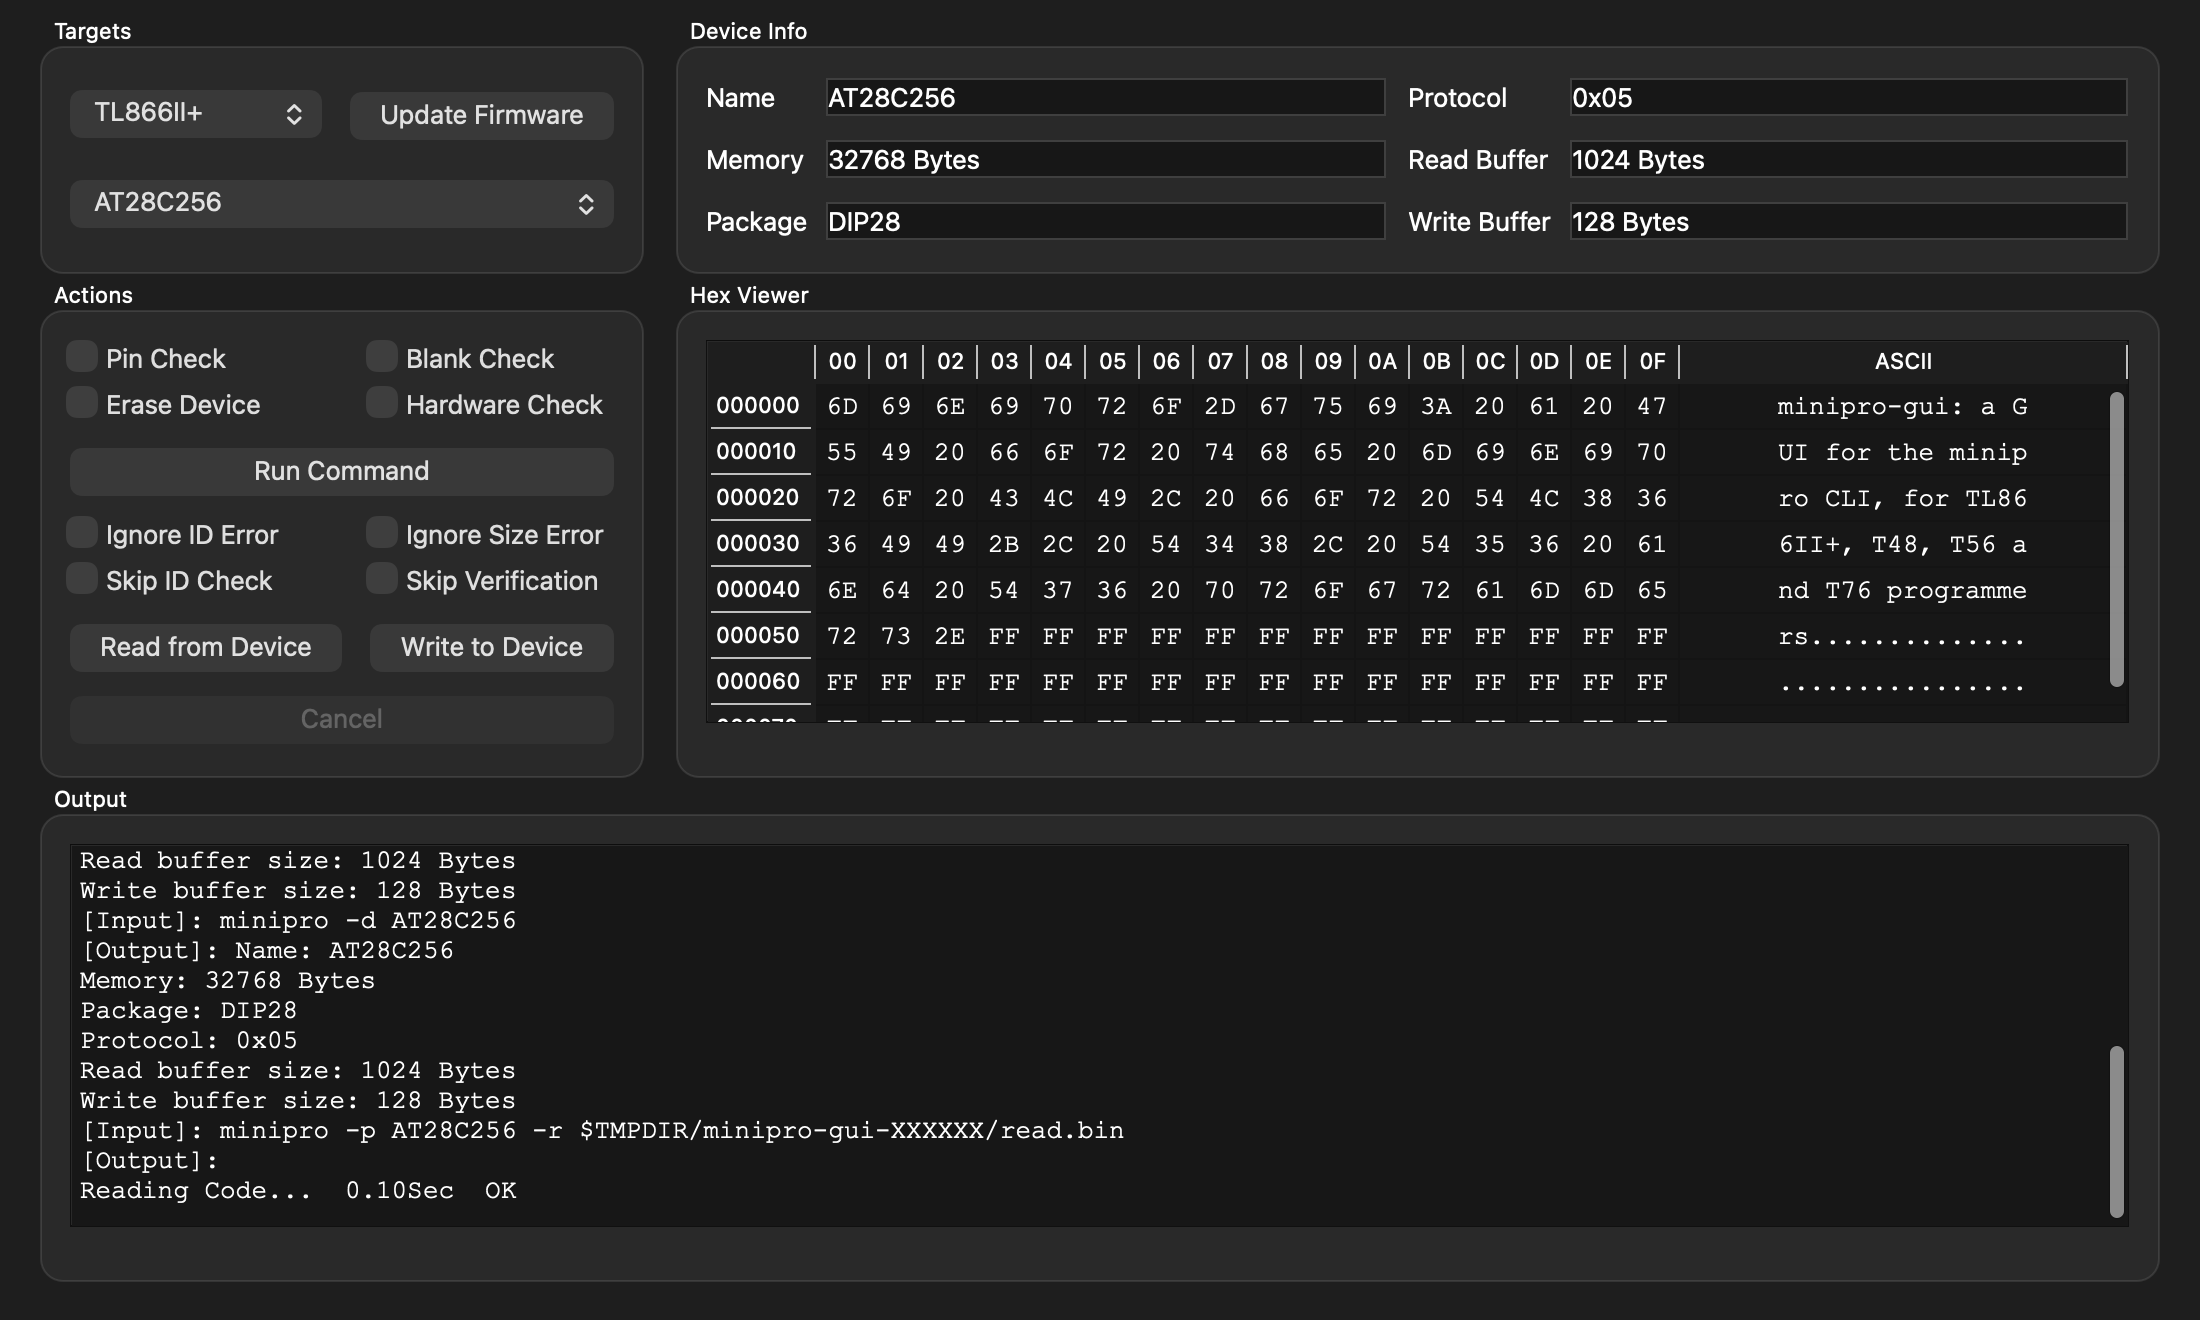
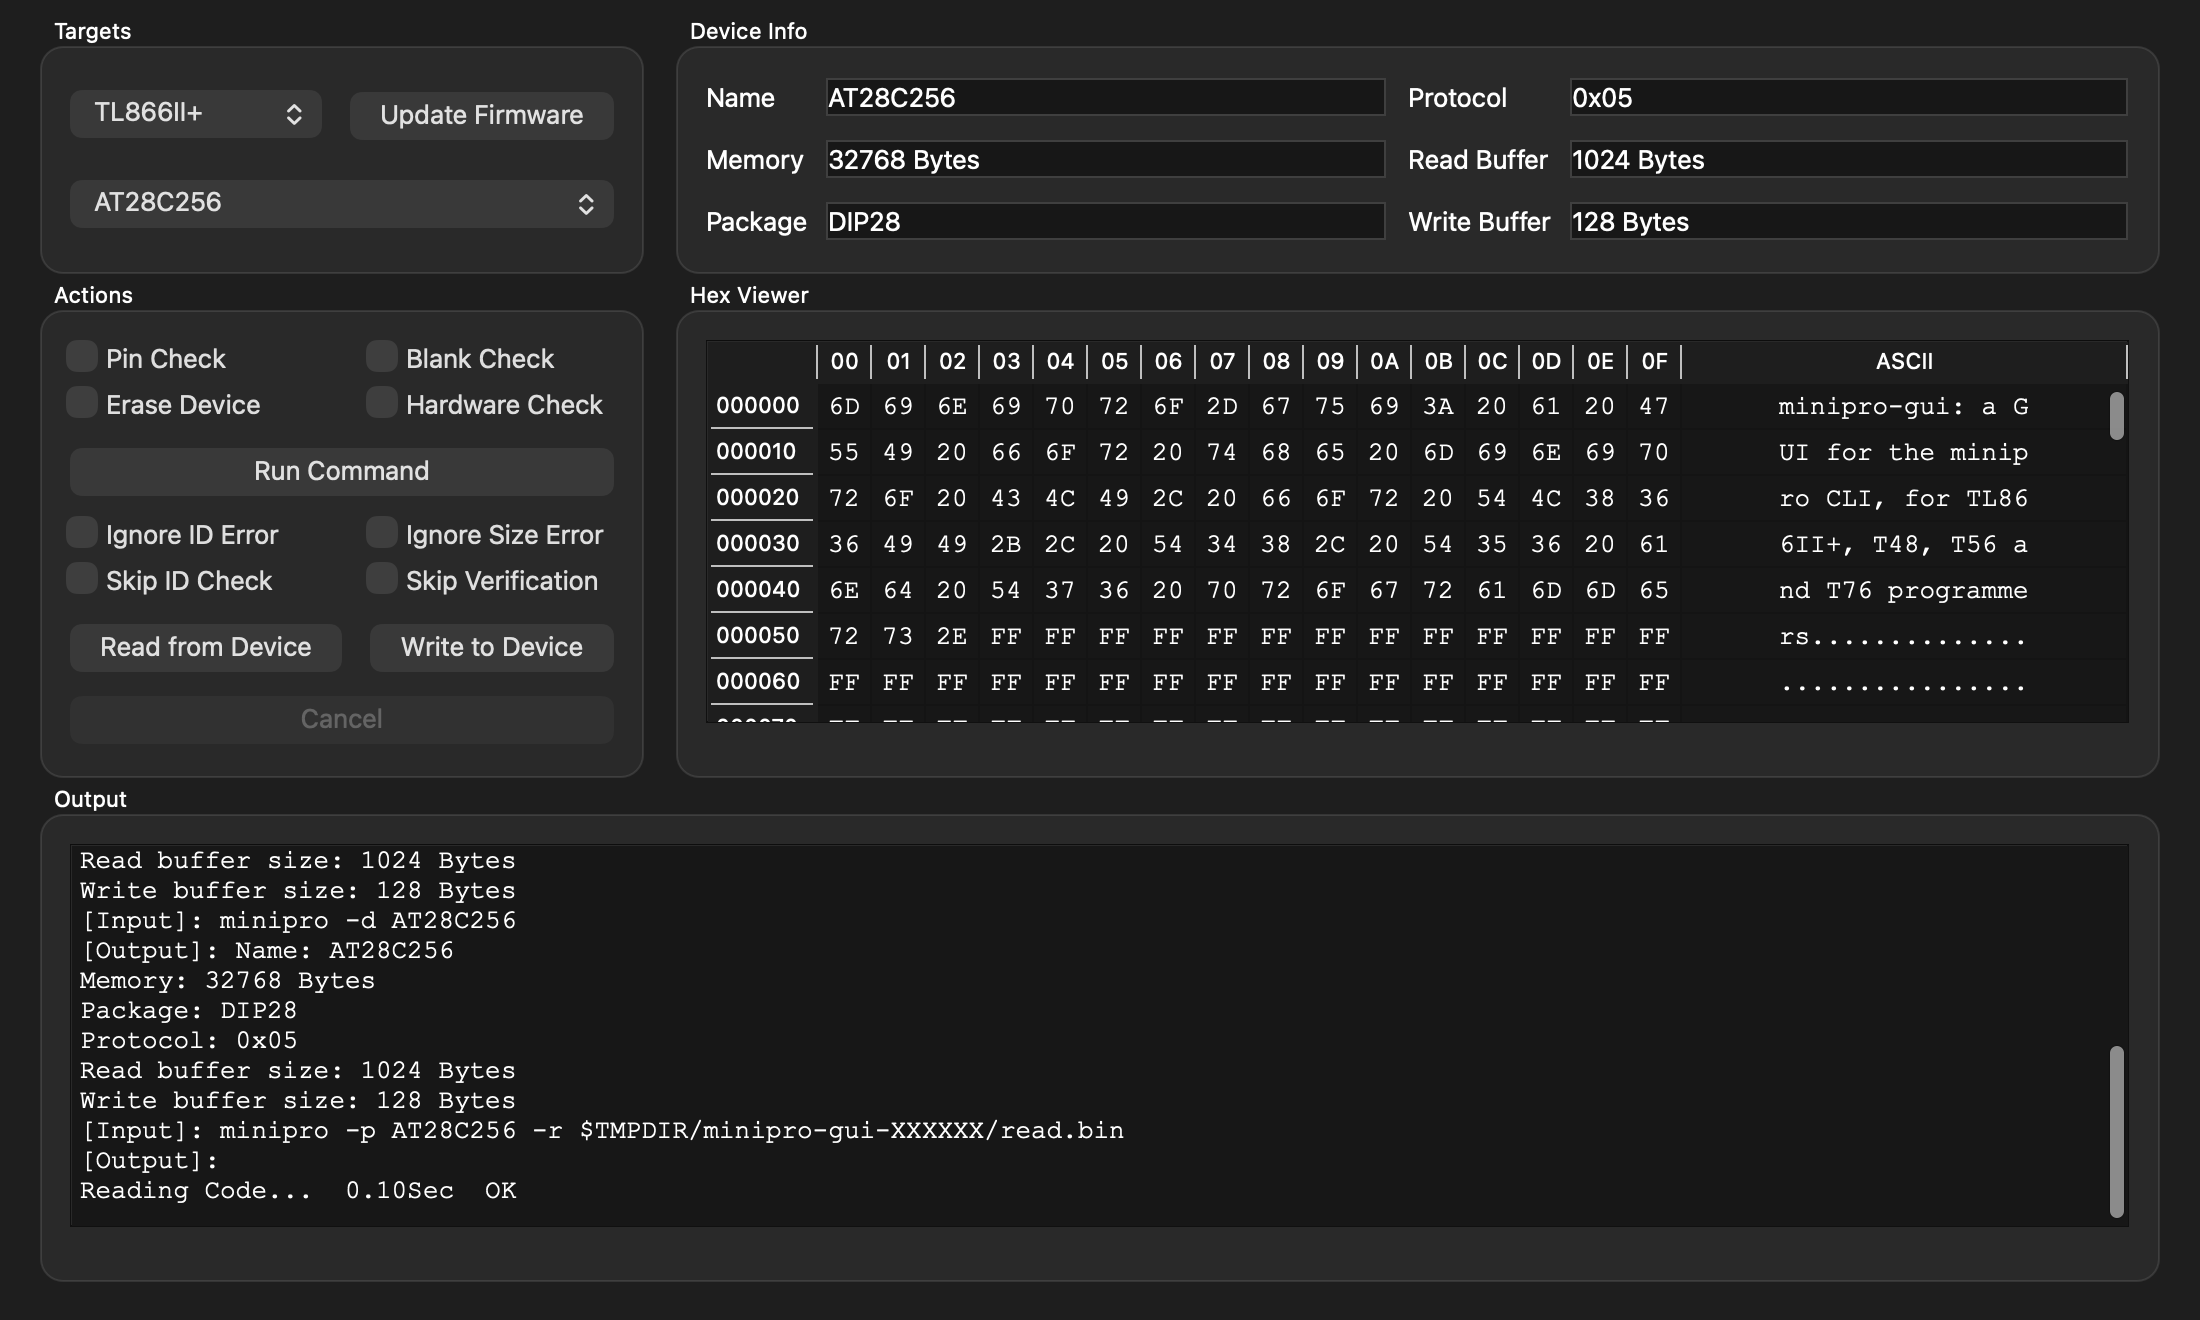
fix(mainwindow): keep the default window within the screen
- The window opened at 1100x660 even on smaller or scaled screens, with the
  Device Info and Hex Viewer panels off-screen. The size is now bounded by
  the screen's available geometry. Adds defaultSizeFitsTheScreen, which
  failed on the old code (1100x660 on the offscreen platform's 800x800)
- Screenshot tool, from /code-review of #18:
  - reads a full 32 KiB image (new FAKE_MINIPRO_READ_SIZE pads the fake's
    bytes with 0xFF), so the hex view has a real chip's 2048 rows
  - the fit check leaves room for a vertical scrollbar where it takes
    space ("Show scroll bars: Always", other systems): a row needs 567 of
    655 px at the default size
  - brings the window to the front and fails if it isn't active, or if the
    screen isn't 2x, since both change the image. Rendering into its own 2x
    pixmap instead drew macOS text fields with white frames, so it keeps
    grab()
  - settles pending events instead of a fixed 300 ms sleep, anchors the
    path mask on path components, and restores the working directory
    before its temp folder is removed
- tests/CMakeLists.txt: the app's sources compile once, as the app_objects
  object library shared by mainwindow_test and screenshot
- /commit: "do not commit if any of them fails" covers all three checks
- res/screenshot.png re-rendered (active window, 32 KiB read); still the
  same image on every run. All tests pass on macOS

Claude-Session: https://claude.ai/code/session_01AEAksPU8LsQPBxCJVhW1fZ

diff --git a/tests/screenshot.cpp b/tests/screenshot.cpp
@@ -17,6 +17,8 @@
 #include <QScrollBar>
 #include <QRegularExpression>
 #include <QStandardPaths>
+#include <QStyle>
+#include <QStyleOptionViewItem>
 #include <QTableView>
 #include <QTemporaryDir>
 #include <QThread>
@@ -24,12 +26,18 @@
 
 namespace {
 
-// The bytes the fake "reads": a line of text, then erased (0xFF) bytes, 8 rows in all.
-QByteArray sampleImage() {
-  QByteArray image("minipro-gui: a GUI for the minipro CLI, for TL866II+, T48, T56 and T76 programmers.");
-  image.append(QByteArray(128 - image.size(), static_cast<char>(0xFF)));
-  return image;
+// The start of what the fake "reads": a line of text. FAKE_MINIPRO_READ_SIZE pads it with erased
+// (0xFF) bytes to the AT28C256's 32 KiB, so the hex view has a real chip's 2048 rows and its
+// vertical scrollbar, as after a real read.
+QByteArray sampleText() {
+  return "minipro-gui: a GUI for the minipro CLI, for TL866II+, T48, T56 and T76 programmers.";
 }
+constexpr int kChipSize = 32768;
+
+// The README image is 2x (Retina). grab() renders at the screen's own ratio, so another one would
+// give a different PNG; the tool refuses rather than scaling. (Rendering into a 2x QPixmap of our
+// own instead draws macOS text fields with white frames.)
+constexpr qreal kPixelRatio = 2.0;
 
 template <typename Predicate>
 bool waitFor(Predicate done, int timeout_ms) {
@@ -43,10 +51,27 @@ bool waitFor(Predicate done, int timeout_ms) {
   return true;
 }
 
+// Delivers everything pending (layout, scrolling, repaints) before the window is rendered.
+void settle() {
+  for (int pass = 0; pass < 5; pass++) {
+    QCoreApplication::sendPostedEvents();
+    QCoreApplication::processEvents(QEventLoop::AllEvents);
+  }
+}
+
 int fail(const char *message) {
   std::cerr << "screenshot: " << message << std::endl;
   return 1;
 }
+
+int fail(const QString &message) { return fail(message.toLocal8Bit().constData()); }
+
+// The app's folder in its temp dir is the working directory while it runs; this puts the original
+// back before that folder is removed (Windows can't remove a working directory).
+struct RestoreCurrentDir {
+  QString path = QDir::currentPath();
+  ~RestoreCurrentDir() { QDir::setCurrent(path); }
+};
 
 }  // namespace
 
@@ -76,7 +101,9 @@ int main(int argc, char *argv[]) {
   if (QFileInfo(QStandardPaths::findExecutable("minipro")) != QFileInfo(fake)) {
     return fail("the fake minipro isn't the first one on PATH; refusing to run the real one");
   }
-  qputenv("FAKE_MINIPRO_READ_HEX", sampleImage().toHex());
+  qputenv("FAKE_MINIPRO_READ_HEX", sampleText().toHex());
+  qputenv("FAKE_MINIPRO_READ_SIZE", QByteArray::number(kChipSize));
+  const RestoreCurrentDir restore_current_dir;  // declared after `work`, so it runs first
   QDir::setCurrent(work.path());
 
   MainWindow main_window;  // shows its window
@@ -86,6 +113,13 @@ int main(int argc, char *argv[]) {
     if (widget->isVisible() && widget != &main_window) window = widget;
   }
   if (window == nullptr) return fail("the app window didn't open");
+  // An inactive window is drawn in other colors, so a run that left the terminal in front would
+  // give a different image. Bring the window to the front, and refuse to save one that isn't.
+  window->raise();
+  window->activateWindow();
+  if (!waitFor([window] { return window->isActiveWindow(); }, 3000)) {
+    return fail("the window didn't become the active one; run it again without switching away");
+  }
 
   QComboBox *device = nullptr;
   for (QComboBox *box : window->findChildren<QComboBox *>()) {
@@ -109,24 +143,46 @@ int main(int argc, char *argv[]) {
       },
       10000);
   if (!loaded) return fail("the read didn't fill the hex view");
+  settle();
+  if (hex_view->model()->rowCount() != kChipSize / 16) return fail("the hex view doesn't show the whole chip");
   // At the app's default size, a whole hex row (bytes and ASCII) must fit. Checked here because
   // this runs on the native platform; the tests' offscreen fonts are narrower and can't show it.
-  if (hex_view->horizontalScrollBar()->isVisible()) {
-    return fail("at the default window size the hex view needs a horizontal scrollbar");
+  // macOS's overlay scrollbars take no room, but with "Show scroll bars: Always" (and on other
+  // systems) the vertical one does, so leave room for it either way.
+  // A full row's ASCII text, measured as the view's delegate draws it.
+  QStyleOptionViewItem ascii_option;
+  ascii_option.initFrom(hex_view);
+  int needed = hex_view->itemDelegate()->sizeHint(ascii_option, hex_view->model()->index(0, 16)).width();
+  for (int column = 0; column < 16; column++) needed += hex_view->columnWidth(column);
+  int available = hex_view->viewport()->width();
+  if (hex_view->style()->styleHint(QStyle::SH_ScrollBar_Transient, nullptr, hex_view) != 0) {
+    available -= hex_view->style()->pixelMetric(QStyle::PM_ScrollBarExtent, nullptr, hex_view);
+  }
+  if (hex_view->horizontalScrollBar()->isVisible() || needed > available) {
+    return fail(QString("at the default window size a hex row doesn't fit: it needs %1 px, the view "
+                        "has %2 px with room for a vertical scrollbar")
+                    .arg(needed)
+                    .arg(available));
   }
   // QTemporaryDir's random suffix would change the image on every run; show the pattern instead.
   if (auto *output_pane = window->findChild<QPlainTextEdit *>(); output_pane != nullptr) {
     // The temp folder differs per machine and the suffix per run, and the folder can name the
     // user: show them as $TMPDIR and XXXXXX, so the image is the same everywhere and every time.
-    static const QRegularExpression read_folder(R"(\S+/minipro-gui-[A-Za-z0-9]{6}/)");
+    static const QRegularExpression read_folder(R"((?:/[^\s/]+)+/minipro-gui-[A-Za-z0-9]{6}/)");
     output_pane->setPlainText(
         output_pane->toPlainText().replace(read_folder, "$TMPDIR/minipro-gui-XXXXXX/"));
     output_pane->moveCursor(QTextCursor::End);  // back to the read, as the app leaves it
     output_pane->ensureCursorVisible();
   }
-  waitFor([] { return false; }, 300);  // let the last repaint land
+  settle();
 
-  if (!window->grab().save(output)) return fail("could not save the screenshot");
-  std::cout << "screenshot: saved " << output.toStdString() << std::endl;
+  const QPixmap image = window->grab();
+  if (image.devicePixelRatio() != kPixelRatio) {
+    return fail(QString("the window is on a %1x display; move it to a Retina (2x) one and run again")
+                    .arg(image.devicePixelRatio()));
+  }
+  if (!image.save(output)) return fail("could not save the screenshot");
+  std::cout << "screenshot: a hex row needs " << needed << " of " << available
+            << " px; saved " << output.toStdString() << std::endl;
   return 0;
 }

diff --git a/tests/MainWindowTest.cpp b/tests/MainWindowTest.cpp
@@ -3,6 +3,7 @@
 #include <QTemporaryDir>
 #include <QElapsedTimer>
 #include <QSignalSpy>
+#include <QScreen>
 #include <csignal>
 #include <memory>
 
@@ -33,6 +34,7 @@ class MainWindowTest : public QObject {
   // Startup / discovery
   void detectsMinipro();
   void windowHasAppIcon();
+  void defaultSizeFitsTheScreen();
   void versionParsing_data();
   void versionParsing();
   void oddDeviceInfoOutput_data();
@@ -166,6 +168,7 @@ void MainWindowTest::init() {
   qunsetenv("FAKE_MINIPRO_READ_HEX");
   qunsetenv("FAKE_MINIPRO_READ_EXIT");
   qunsetenv("FAKE_MINIPRO_READ_EMPTY");
+  qunsetenv("FAKE_MINIPRO_READ_SIZE");
   qunsetenv("FAKE_MINIPRO_CRASH");
   qunsetenv("FAKE_MINIPRO_DELAY");
   qunsetenv("FAKE_MINIPRO_DONE_LOG");
@@ -1258,6 +1261,17 @@ void MainWindowTest::windowHasAppIcon() {
   QVERIFY(QFile::exists(":/res/AppIcon.png"));
   auto mw = makeWindow();
   QVERIFY(!mw->window->windowIcon().pixmap(64, 64).isNull());
+}
+
+void MainWindowTest::defaultSizeFitsTheScreen() {
+  // Regression (code review): the window opened at 1100x660 even on smaller screens, with its
+  // right-hand panels off-screen. The offscreen platform's screen is 800x600.
+  auto mw = makeWindow();
+  const QSize available = mw->window->screen()->availableGeometry().size();
+  QVERIFY2(mw->window->width() <= available.width() && mw->window->height() <= available.height(),
+           qPrintable(QString("window %1x%2, screen %3x%4")
+                          .arg(mw->window->width()).arg(mw->window->height())
+                          .arg(available.width()).arg(available.height())));
 }
 
 QTEST_MAIN(MainWindowTest)

diff --git a/tests/fake_minipro.cpp b/tests/fake_minipro.cpp
@@ -7,6 +7,9 @@
 //   FAKE_MINIPRO_NO_PROGRAMMER  if set, --presence_check reports no programmer
 //   FAKE_MINIPRO_PRESENCE     if set, --presence_check prints this text instead (\n allowed)
 //   FAKE_MINIPRO_READ_HEX     hex string written (as bytes) to the -r target file
+//   FAKE_MINIPRO_READ_SIZE    if set, -r pads FAKE_MINIPRO_READ_HEX's bytes with 0xFF (erased)
+//                             up to this many bytes, like a chip of that size; a hex string that
+//                             long wouldn't fit in a Windows environment variable
 //   FAKE_MINIPRO_READ_EMPTY   if set, -r writes an empty file
 //   FAKE_MINIPRO_READ_EXIT    exit code for -r / -w / -F operations (default 0)
 //   FAKE_MINIPRO_CRASH        if set, device operations crash (SIGKILL; an access-violation exit
@@ -241,7 +244,11 @@ void readTo(const std::string &target) {
   if (isSet("FAKE_MINIPRO_READ_EMPTY")) {
     std::ofstream(target, std::ios::binary | std::ios::trunc);
   } else if (isSet("FAKE_MINIPRO_READ_HEX")) {
-    std::ofstream(target, std::ios::binary | std::ios::trunc) << decodeHex(env("FAKE_MINIPRO_READ_HEX"));
+    std::string bytes = decodeHex(env("FAKE_MINIPRO_READ_HEX"));
+    if (const std::string size = env("FAKE_MINIPRO_READ_SIZE"); !size.empty()) {
+      bytes.resize(std::max(bytes.size(), std::stoul(size)), static_cast<char>(0xFF));
+    }
+    std::ofstream(target, std::ios::binary | std::ios::trunc) << bytes;
   }
   std::cerr << "Reading Code...  0.10Sec  OK\n";
 }

diff --git a/src/MainWindow.cpp b/src/MainWindow.cpp
@@ -1,5 +1,6 @@
 #include "MainWindow.h"
 #include <QStandardPaths>
+#include <QScreen>
 #include <QMessageBox>
 #include <QTimer>
 
@@ -135,7 +136,13 @@ void MainWindow::initializer() {
 
   window = std::make_unique<QWidget>();
   window->setWindowTitle("minipro CLI not found!");
-  window->resize(1100, 660);  // wide enough for the hex view's ASCII column on macOS
+  // Wide enough for a whole hex row (bytes and ASCII) on macOS, but never larger than the screen:
+  // on a small or scaled display the right-hand panels would open off-screen.
+  QSize size(1100, 660);
+  if (const QScreen *screen = window->screen(); screen != nullptr) {
+    size = size.boundedTo(screen->availableGeometry().size());
+  }
+  window->resize(size);
   window->setMinimumSize(800, 480);
 
   targets.programmer = new QComboBox(window.get());

diff --git a/AGENTS.md b/AGENTS.md
@@ -18,7 +18,7 @@ The root `CMakeLists.txt` globs `src/*.cpp` / `src/*.h`, so new source files are
 
 ## Tests
 
-`tests/` is a **separate CMake project** (not added via `add_subdirectory`). It builds one QtTest executable per test class, `hexview_test` and `mainwindow_test`, and registers both with CTest. Source files are listed explicitly in `tests/CMakeLists.txt`: a new `src/*.cpp` file has to be added there, and `main.cpp` is excluded because `QTEST_MAIN` provides `main`.
+`tests/` is a **separate CMake project** (not added via `add_subdirectory`). It builds one QtTest executable per test class, `hexview_test` and `mainwindow_test`, and registers both with CTest. Source files are listed explicitly in `tests/CMakeLists.txt`: the app's sources are compiled once into the `app_objects` object library, which `mainwindow_test` and `screenshot` link, so a new `src/*.cpp` file goes there. `main.cpp` is excluded because `QTEST_MAIN` provides `main`.
 
 ```sh
 tests/run_tests.sh                    # configure + build into tests/build, run ctest (headless, QT_QPA_PLATFORM=offscreen)
@@ -27,7 +27,7 @@ QT_QPA_PLATFORM=offscreen tests/build/mainwindow_test readDeviceFillsHexView   #
 tests/update_screenshot.sh            # re-render res/screenshot.png (the README screenshot), on macOS
 ```
 
-`tests/screenshot.cpp` (target `screenshot`, not a test) opens the real window on the native platform with the fake `minipro` first on `PATH` (it refuses to run if `PATH` would find another one), picks AT28C256, clicks Read from Device, and saves the window at the app's default size (1100×660) with `QWidget::grab()`. It fails if the hex view needs a horizontal scrollbar at that size: the tests' offscreen fonts are narrower than macOS's, so only this native run can catch a too-small default. In the Output pane it shows the read file's folder as `$TMPDIR/minipro-gui-XXXXXX/`, since the real one differs per machine and run (and can name the user), so the same UI always gives the same PNG. `/commit` runs it when a change can alter the window.
+`tests/screenshot.cpp` (target `screenshot`, not a test) opens the real window on the native platform with the fake `minipro` first on `PATH` (it refuses to run if `PATH` would find another one). It brings the window to the front, picks AT28C256, clicks Read from Device on a full 32 KiB image (`FAKE_MINIPRO_READ_SIZE` pads the fake's bytes to the chip size, so the hex view has its real 2048 rows and vertical scrollbar), and saves the window at the app's default size with `QWidget::grab()`. It fails if a whole hex row doesn't fit at that size with room for a vertical scrollbar (the tests' offscreen fonts are narrower, so only this native run can catch a too-small default), if the window isn't the active one, or if the screen isn't 2x: each of these would change the image. In the Output pane it shows the read file's folder as `$TMPDIR/minipro-gui-XXXXXX/`, since the real one differs per machine and run (and can name the user), so the same UI always gives the same PNG. `/commit` runs it when a change can alter the window.
 
 - `MainWindowTest` never calls the real CLI. It copies the `fake_minipro` program (`tests/fake_minipro.cpp`, plain C++ without Qt, built by `tests/CMakeLists.txt`) into a temp dir as `minipro` (`minipro.exe` on Windows), puts it first on `PATH`, and steers it with `FAKE_MINIPRO_*` env vars (see the header of `fake_minipro.cpp`). Every call's arguments are logged, so tests can check the exact command line. The fake's output is shaped to match MainWindow's regex parsing; it is not a capture from real hardware. Each test runs inside a temp working dir, and reads go to the window's own `read_file`.
 - Tests reach private members through `friend class MainWindowTest` in `MainWindow.h`.

diff --git a/.claude/skills/commit/SKILL.md b/.claude/skills/commit/SKILL.md
@@ -77,7 +77,7 @@ Run, in order:
 
 Skip all three only for a change confined to Markdown or `.claude/`, and say so.
 
-Do not commit if either fails.
+Do not commit if any of them fails.
 
 **If a test fails, fix the code, not the test.** Read the failure, find the
 cause, fix it, and run again until it passes. Change a test only when this
